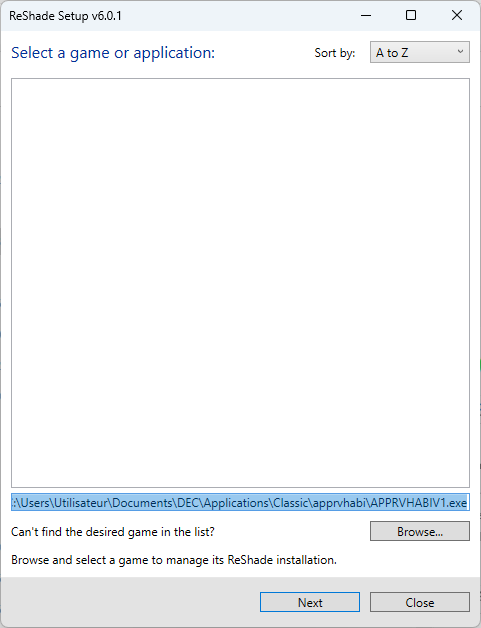
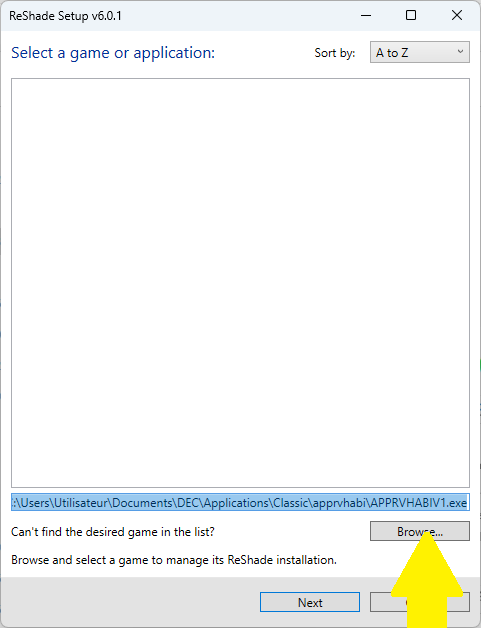
maj

Changed region(s): [[0.8108, 0.8471, 0.9667, 1.0]]

diff --git a/guide3/DEC-Hack.md b/guide3/DEC-Hack.md
@@ -1,65 +1,14 @@
 # Communication de la plateforme web
 
-https://lookyloo.circl.lu/tree/4681f5b3-2b2e-4c5d-ad9c-d7e5de1c1448
+### installation de reshade
 
-# Modification et amélioration de la plateforme DEC
+l'aplication reshade installer sur l'ordinateur on va pouvoir le configurer. dans un premier temps on va selectionner l'application.
 
-## Installation et configuration de reshade pour DEC
-
-## Tracage de la communication de la plate forme
-
-```
-@echo off
-set /p appname="Entrez le nom de l'application (sans l'extension .exe): "
-netstat -ano | findstr :80 > temp.txt
-for /f "tokens=5" %%a in ('type temp.txt') do (
-    for /f "tokens=1" %%b in ('tasklist /fi "pid eq %%a" ^| findstr /i %appname%.exe') do (
-        if "%%b"=="%appname%.exe" (
-            echo Connexion trouvee: PID %%a
-        )
-    )
-)
-del temp.txt
-```
-
-Ce script demande d’abord le nom de l’application, puis utilise netstat pour lister toutes les connexions sur le port 80 (HTTP), filtre ces connexions pour obtenir les PID correspondants, et utilise tasklist pour trouver l’application correspondant à ces PID. Si une correspondance est trouvée, elle affiche le PID.
-Notez que :
-Vous devrez peut-être exécuter ce script avec des privilèges d’administrateur pour obtenir toutes les informations nécessaires.
-Remplacez :80 par le port spécifique que vous souhaitez surveiller, si nécessaire.
-Ce script est un exemple de base et peut nécessiter des ajustements selon vos besoins spécifiques.
-
-### execution etape par etape
-Pour exécuter le script étape par étape, suivez ces instructions :
-Ouvrez l’invite de commande en faisant un clic droit sur le menu Démarrer et en sélectionnant “Invite de commandes (admin)” ou “Windows PowerShell (admin)”.
-Tapez chaque commande du script une par une, en appuyant sur Entrée après chaque ligne pour l’exécuter. Voici les commandes décomposées :
-set /p appname="Entrez le nom de l'application (sans l'extension .exe): "
-
-Cette commande vous demandera de saisir le nom de l’application.
-netstat -ano | findstr :80 > temp.txt
-
-netstat -ano liste toutes les connexions et écoutes actives ainsi que les ports TCP et UDP ouverts, et findstr :80 filtre les résultats pour le port 80, redirigeant la sortie vers temp.txt.
-for /f "tokens=5" %%a in ('type temp.txt') do (
-
-Cette boucle lit temp.txt et extrait le cinquième élément de chaque ligne, qui correspond au PID.
-for /f "tokens=1" %%b in ('tasklist /fi "pid eq %%a" ^| findstr /i %appname%.exe') do (
-
-Cette commande utilise tasklist pour lister les tâches qui correspondent au PID trouvé, puis findstr pour filtrer par le nom de l’application.
-if "%%b"=="%appname%.exe" (
-    echo Connexion trouvee: PID %%a
-)
-
-Si le nom de l’application correspond, cette commande affiche le PID de la connexion trouvée.
-Après avoir entré chaque commande, observez les résultats dans l’invite de commande pour vérifier que chaque étape fonctionne comme prévu.
-Si vous rencontrez des erreurs lors de l’exécution des commandes, notez le message d’erreur et le moment où il se produit, cela aidera à diagnostiquer le problème. N’oubliez pas de remplacer :80 par le port que vous souhaitez surveiller si nécessaire.
-
-### installation de reshare
-
-
-
+<img src="image/reshade" alt="Selectionner Browse" height="auto" width="550">
 
 ### bug et remarque 
 
 les graphisme laisse a desiré en effet il n'y a pas d'exploitation au niveau des ombre mais aussi au technologie existante comme le "RTX et le DLSS" qui pourrai améliorer les graphisme.
 il y a beaucoups de bug present sur l'application comme lors que  l'on utilise le mode "classique" et que lance une activité en utilisant l'application il est possible de bloquer notre personnage et donc se retrouver soft lock et donc redemarre l'application 
 
-utilisation de fichier audio qui provien de steam VR "activation".waw
+utilisation de fichier audio qui provien de steam VR "activation.wav"?  
